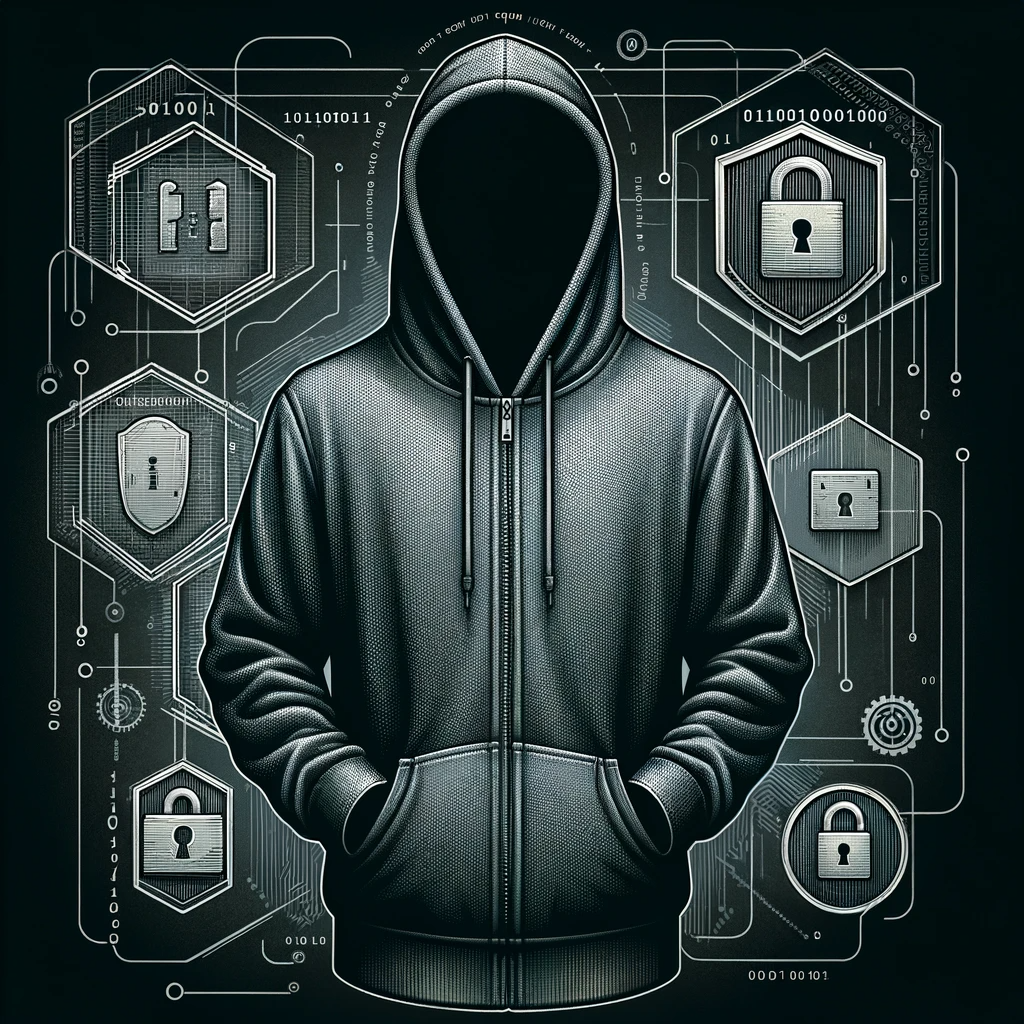
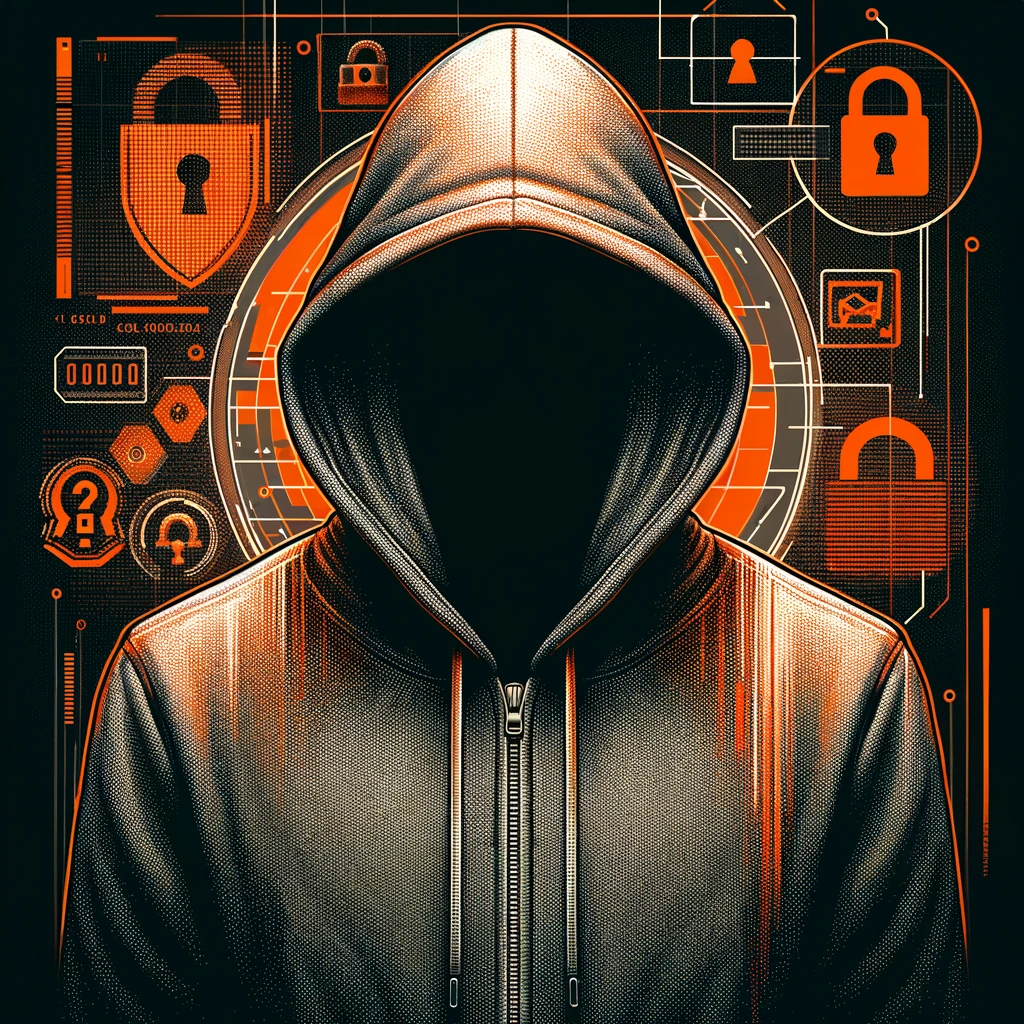
feat: anonym achievement; condition type for lesson

diff --git a/src/modules/personal_account/repository.py b/src/modules/personal_account/repository.py
@@ -32,6 +32,7 @@ from src.modules.personal_account.schemas import (
     UpdateAchievement,
     CreatePersonalAccountAchievement,
     ViewLeaderBoard,
+    ViewAchievementWithSummary,
     ViewPersonalAccountBattlePass,
 )
 
@@ -198,12 +199,37 @@ class AchievementRepository(SQLAlchemyRepository):
             await session.execute(q)
             await session.commit()
 
-    async def get_all(self) -> list[ViewAchievement]:
+    async def get_all(self) -> list[ViewAchievementWithSummary]:
         async with self._create_session() as session:
             q = select(Achievement)
             objs = await session.scalars(q)
             if objs:
-                return [ViewAchievement.model_validate(obj) for obj in objs]
+                achievements = [ViewAchievement.model_validate(achievement) for achievement in objs]
+
+                achievement_counts = {}
+                for achievement in achievements:
+                    q = (
+                        select(func.count(PersonalAccountAchievements.personal_account_id))
+                        .select_from(PersonalAccountAchievements)
+                        .where(PersonalAccountAchievements.achievement_id == achievement.id)
+                    )
+                    achievement_counts[achievement.id] = await session.scalar(q)
+                total_user_count = await session.scalar(select(func.count(PersonalAccount.user_id)))
+
+                achievement_percentages = {}
+                for achievement_id, count in achievement_counts.items():
+                    achievement_percentages[achievement_id] = count / total_user_count
+
+                achievement_summaries = [
+                    ViewAchievementWithSummary(
+                        percent=achievement_percentages[achievement.id],
+                        total_count=achievement_counts[achievement.id],
+                        achievement=achievement,
+                    )
+                    for achievement in achievements
+                ]
+
+                return achievement_summaries
 
 
 class LevelRepository(SQLAlchemyRepository):

diff --git a/alembic/versions/_2023_12_09_10_42_add_conditions_for_lesson.py b/alembic/versions/_2023_12_09_10_42_add_conditions_for_lesson.py
@@ -1,0 +1,52 @@
+"""add conditions for lesson
+
+Revision ID: 1a0274c4cbfe
+Revises: 7dc29d1cb4f7
+Create Date: 2023-12-09 10:42:37.751106
+
+"""
+from typing import Sequence, Union
+
+from alembic import op
+import sqlalchemy as sa
+from sqlalchemy.dialects import postgresql
+
+# revision identifiers, used by Alembic.
+revision: str = "1a0274c4cbfe"
+down_revision: Union[str, None] = "7dc29d1cb4f7"
+branch_labels: Union[str, Sequence[str], None] = None
+depends_on: Union[str, Sequence[str], None] = None
+
+
+def upgrade() -> None:
+    # ### commands auto generated by Alembic - please adjust! ###
+    condition_type = postgresql.ENUM("nothing", "min_level", "reward", "battlepass", name="conditiontype")
+    condition_type.create(op.get_bind())
+
+    op.add_column(
+        "lessons",
+        sa.Column(
+            "condition_type",
+            sa.Enum("nothing", "min_level", "reward", "battlepass", name="conditiontype"),
+            nullable=False,
+        ),
+    )
+    op.add_column("lessons", sa.Column("recommended_level", sa.Integer(), nullable=True))
+    op.add_column("lessons", sa.Column("min_level", sa.Integer(), nullable=True))
+    op.add_column("lessons", sa.Column("reward_id", sa.Integer(), nullable=True))
+    op.add_column("lessons", sa.Column("battlepass_id", sa.Integer(), nullable=True))
+    op.create_foreign_key(None, "lessons", "reward", ["reward_id"], ["id"])
+    op.create_foreign_key(None, "lessons", "battle_pass", ["battlepass_id"], ["id"])
+    # ### end Alembic commands ###
+
+
+def downgrade() -> None:
+    # ### commands auto generated by Alembic - please adjust! ###
+    op.drop_constraint(None, "lessons", type_="foreignkey")
+    op.drop_constraint(None, "lessons", type_="foreignkey")
+    op.drop_column("lessons", "battlepass_id")
+    op.drop_column("lessons", "reward_id")
+    op.drop_column("lessons", "min_level")
+    op.drop_column("lessons", "recommended_level")
+    op.drop_column("lessons", "condition_type")
+    # ### end Alembic commands ###

diff --git a/src/storages/sqlalchemy/models/lesson.py b/src/storages/sqlalchemy/models/lesson.py
@@ -1,4 +1,5 @@
 from enum import StrEnum
+from typing import Optional
 
 from sqlalchemy import Integer
 from sqlalchemy.dialects import postgresql
@@ -16,6 +17,13 @@ class StepType(StrEnum):
     input = "input"
 
 
+class ConditionType(StrEnum):
+    nothing = "nothing"
+    min_level = "min_level"
+    reward = "reward"
+    battlepass = "battlepass"
+
+
 class Lesson(Base):
     __tablename__ = "lessons"
 
@@ -28,6 +36,14 @@ class Lesson(Base):
     task_associations: Mapped[list["TaskAssociation"]] = relationship(
         "TaskAssociation", lazy="selectin", order_by="TaskAssociation.order"
     )
+
+    condition_type: Mapped[ConditionType] = mapped_column(
+        SQLEnum(ConditionType), nullable=False, default=ConditionType.nothing
+    )
+    recommended_level: Mapped[Optional[int]] = mapped_column(Integer, nullable=True, default=None)
+    min_level: Mapped[Optional[int]] = mapped_column(Integer, nullable=True, default=None)
+    reward_id: Mapped[Optional[int]] = mapped_column(ForeignKey(Reward.id), nullable=True, default=None)
+    battlepass_id: Mapped[Optional[int]] = mapped_column(ForeignKey("battle_pass.id"), nullable=True, default=None)
 
 
 class Task(Base):

diff --git a/src/modules/auth/router.py b/src/modules/auth/router.py
@@ -4,9 +4,10 @@ from typing import Annotated
 
 from fastapi import APIRouter, HTTPException
 
-from src.api.dependencies import DEPENDS_AUTH_REPOSITORY, DEPENDS_USER_REPOSITORY
+from src.api.dependencies import DEPENDS_AUTH_REPOSITORY, DEPENDS_USER_REPOSITORY, Dependencies
 from src.modules.auth.repository import TokenRepository, AuthRepository
 from src.modules.auth.schemas import AuthResult, AuthCredentials
+from src.modules.personal_account.schemas import CreatePersonalAccountAchievement
 from src.modules.user.repository import UserRepository
 from src.modules.user.schemas import CreateUser
 
@@ -42,4 +43,14 @@ async def finish_registration(
 ):
     user = await auth_repository.finish_registration(email, code)
     token = TokenRepository.create_access_token(user.id)
+
+    if user.name == "":
+        achievement_repository = Dependencies.get_achievement_repository()
+        await achievement_repository.set_to_personal_account(
+            CreatePersonalAccountAchievement(
+                achievement_id=100000001,  # anonym
+                personal_account_id=user.id,
+            )
+        )
+
     return AuthResult(token=token, success=True)

diff --git a/src/modules/personal_account/router.py b/src/modules/personal_account/router.py
@@ -31,6 +31,7 @@ from src.modules.personal_account.schemas import (
     CreateBattlePass,
     CreatePersonalAccountBattlePasses,
     ViewLeaderBoard,
+    ViewAchievementWithSummary,
     ViewPersonalAccountBattlePass,
 )
 
@@ -163,7 +164,7 @@ async def set_reward_to_personal_account(
 async def get_all_achievements(
     verification: Annotated[VerificationResult, Depends(verify_request)],
     achievement_repository: Annotated[AchievementRepository, DEPENDS_ACHIEVEMENT_REPOSITORY],
-) -> list[ViewAchievement]:
+) -> list[ViewAchievementWithSummary]:
     all_achievements = await achievement_repository.get_all()
     return all_achievements
 

diff --git a/src/modules/lesson/router.py b/src/modules/lesson/router.py
@@ -68,6 +68,20 @@ async def solve(
     return TaskSolveResult(success=success)
 
 
+class LessonProgress(BaseModel):
+    lesson_id: int
+    is_available: bool = False
+
+
+@router.get("/my-progress")
+async def get_my_progress(
+    verification: Annotated[VerificationResult, DEPENDS_VERIFIED_REQUEST],
+    user_repository: Annotated[UserRepository, DEPENDS_USER_REPOSITORY],
+    personal_account: Annotated[PersonalAccountRepository, DEPENDS_PERSONAL_ACCOUNT_REPOSITORY],
+) -> list[ViewLesson]:
+    ...
+
+
 # ----------------- Lesson -----------------
 @router.post("/", status_code=201)
 async def post_lesson(

diff --git a/src/modules/personal_account/schemas.py b/src/modules/personal_account/schemas.py
@@ -36,6 +36,14 @@ class ViewAchievement(BaseModel):
     )
 
 
+class ViewAchievementWithSummary(BaseModel):
+    model_config = ConfigDict(from_attributes=True)
+
+    achievement: ViewAchievement
+    total_count: int = Field(..., description="Total count of users with this achievement", examples=[0, 1, 2, 3])
+    percent: float = Field(..., description="Percent of users with this achievement", examples=[0.0, 0.1, 0.2, 0.3])
+
+
 class ViewBattlePass(BaseModel):
     model_config = ConfigDict(from_attributes=True)
 
